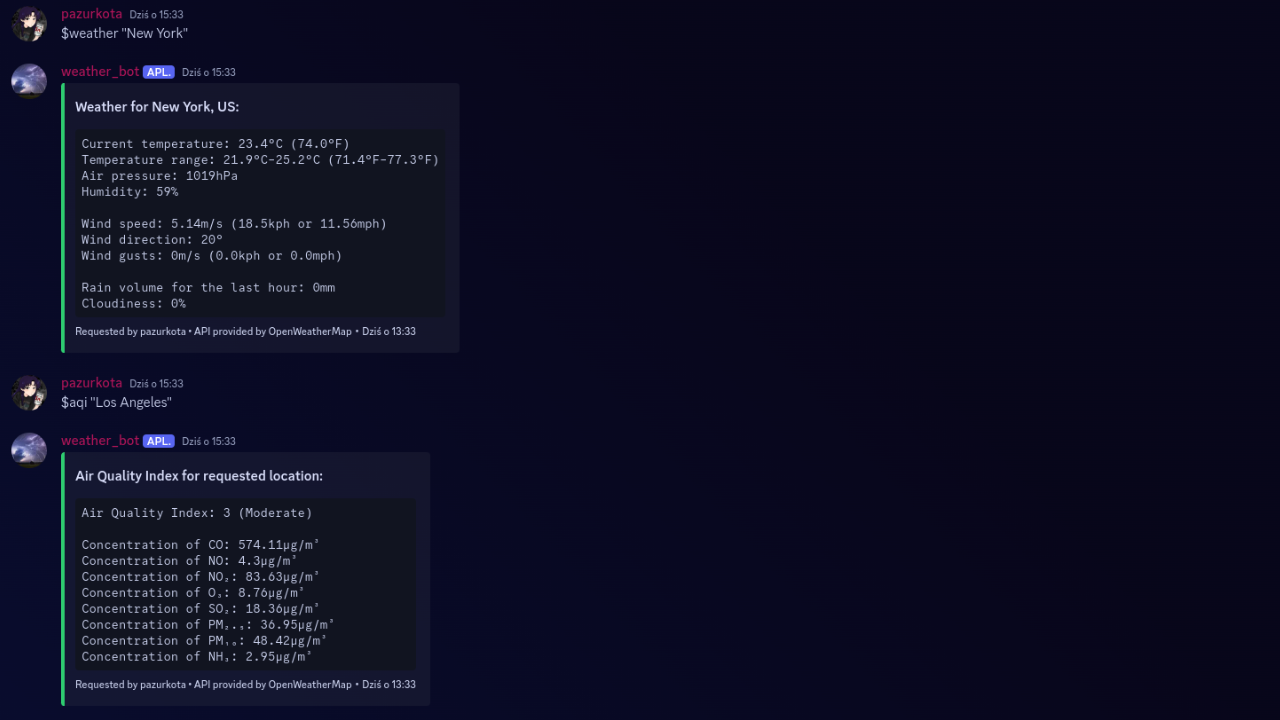
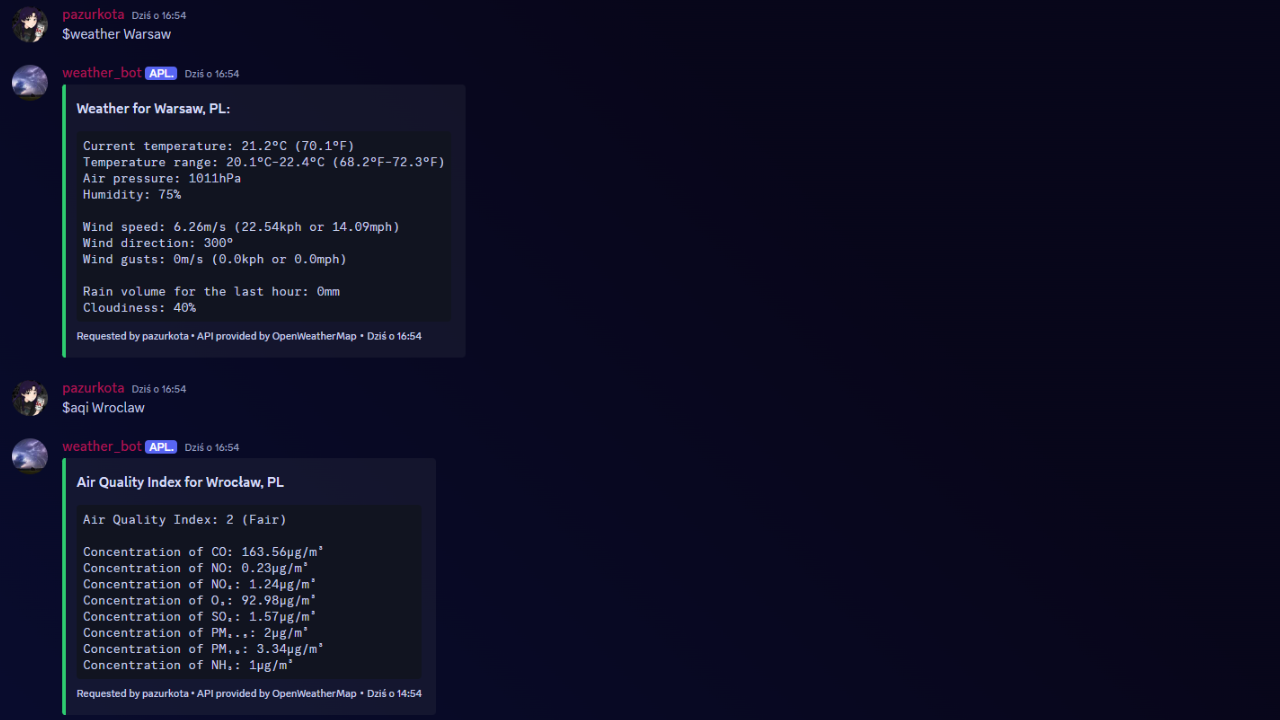
Updated README image

diff --git a/parse/parse_aqi_data.py b/parse/parse_aqi_data.py
@@ -22,7 +22,7 @@ Concentration of NH₃: {data['list'][0]['components']['nh3']}µg/m³```
 
     embed = discord.Embed(
         colour=discord.Colour.green(),
-        title=f"Air Quality Index {city[0]}, {city[1]}",
+        title=f"Air Quality Index for {city[0]}, {city[1]}",
         description=description
     )
 
